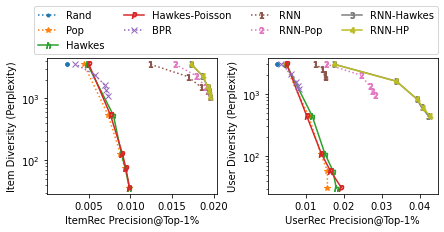
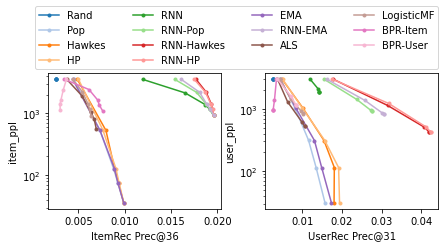
tweaks

Changed region(s): [[0.0, 0.0302, 0.9955, 0.9957]]

diff --git a/src/rim_experiments/dataset/base.py b/src/rim_experiments/dataset/base.py
@@ -41,7 +41,8 @@ def _mark_holdout(event_df, user_df, horizon):
 
     post_test = (event_df['_holdout']==2).mean()
     if post_test>0:
-        warnings.warn(f"Post-test {post_test:.1%} events with _holdout=2 should be ignored")
+        warnings.warn("Post-test events with _holdout=2 should be ignored; "
+            f"they account for {post_test:.1%} of all events")
     del event_df['TEST_START_TIME']
     return event_df
 
@@ -79,7 +80,7 @@ def _augment_item_hist(item_df, event_df):
 
 
 @dataclasses.dataclass(eq=False)
-class _UnlabeledDataset:
+class _SelfSupervisedDataset:
     """ a dataset with observed events and optional user histories and timestamps
     for self-supervised training
     """
@@ -99,8 +100,8 @@ class _UnlabeledDataset:
 
 
 @dataclasses.dataclass(eq=False)
-class Dataset(_UnlabeledDataset):
-    """ A dataset class contains 3 related tables
+class Dataset(_SelfSupervisedDataset):
+    """ A labeled dataset from 3 related tables:
         event_df: [USER_ID, ITEM_ID, TIMESTAMP]
         user_df: [USER_ID (index), TEST_START_TIME]
         item_df: [ITEM_ID (index)]
@@ -134,7 +135,7 @@ class Dataset(_UnlabeledDataset):
             self.event_df[self.event_df['_holdout']==1].copy(),
             self.user_in_test.index, self.item_in_test.index, "df"
         )
-        self.training_data = _UnlabeledDataset(
+        self.training_data = _SelfSupervisedDataset(
             self.event_df[self.event_df['_holdout']==0].copy(),
             self.user_df, self.item_df
         )
@@ -148,7 +149,8 @@ class Dataset(_UnlabeledDataset):
             print(pd.DataFrame(self.get_stats()).T.stack().apply('{:.2f}'.format))
             print(self.user_df.sample().iloc[0])
             print(self.item_df.sample().iloc[0])
-        print("dataset post-init complete")
+
+        print("Dataset initialized!")
 
     def __hash__(self):
         return id(self)

diff --git a/src/rim_experiments/util/cvx_bisect.py b/src/rim_experiments/util/cvx_bisect.py
@@ -36,7 +36,7 @@ def primal_solution(u, v, s, eps):
     if eps > 0:
         return torch.sigmoid(s_u_v(s, u, v) / eps)
     else:
-        # TODO: how to represent subgradients in [0, 1]?
+        # obtain subgradients via torch.floor or ceil
         return torch.sign(s_u_v(s, u, v)) * 0.5 + 0.5
 
 
@@ -54,12 +54,22 @@ def dual_complete(u, v, s, alpha, beta, eps):
     return (u * alpha).mean() + (v * beta).mean() + sp.mean()
 
 
-def grad_u(u, v, s, alpha, eps, x=None):
+def grad_u(u, v, s, alpha, eps):
     """
     find u = min{u>=0 : E_y[pi(x,y)] <= alpha(x)}
     """
     pi = primal_solution(u, v, s, eps)
-    return alpha - pi.mean(1)
+    if eps>0:
+        return alpha - pi.mean(1)
+    else:
+        return _subgradient(alpha, pi)
+
+
+def _subgradient(alpha, pi):
+    lb = alpha - torch.ceil(pi).mean(1)
+    ub = alpha - torch.floor(pi).mean(1)
+    return torch.where(ub < 0, ub, torch.where(
+        lb > 0, lb, torch.zeros_like(lb)))
 
 
 @torch.no_grad()
@@ -187,7 +197,10 @@ if 'CVX_STABLE' in os.environ and int(os.environ['CVX_STABLE']):
         """ alpha - pi.mean(1)
         be more precise if eps->0 while there are a lot of ties
         """
-        assert 0<alpha<1 or eps>0, "prevent inf-inf when both are extreme values"
+        if eps==0:
+            pi = torch.sign(s_u_v(s, u, v)) * 0.5 + 0.5
+            return _subgradient(alpha, pi)
+
         alpha = torch.as_tensor(alpha, device=s.device).clip(0, 1)
 
         z = alpha.log() - (1-alpha).log()

diff --git a/src/rim_experiments/__init__.py b/src/rim_experiments/__init__.py
@@ -1,6 +1,6 @@
 try:
-    import pylab as pl
-    pl.plot(); pl.show() # tick behaves oddly with matplotlib
+    import matplotlib.pyplot as plt
+    plt.plot(); plt.show() # tick behaves weirdly with matplotlib
 except ImportError:
     pass
 
@@ -75,7 +75,7 @@ class Experiment:
             "BPR-Item", "BPR-User",
             ],
         model_hyps={},
-        device="cpu", # for gpu, use "cuda" after setting CUDA_VISIBLE_DEVICES
+        device="cuda" if torch.cuda.is_available() else "cpu",
         cvx=False,
         online=False,
         **mtch_kw
@@ -274,11 +274,13 @@ def plot_results(self, logy=True):
     yname = ['item_ppl', 'user_ppl']
 
     for ax, df, xname, yname in zip(ax, df, xname, yname):
+        ax.set_prop_cycle('color', [
+            plt.get_cmap('tab20')(i/20) for i in range(20)])
         if df is not None:
             ax.plot(
                 df.loc['prec'].unstack().values.T,
                 df.loc[yname].unstack().values.T,
-                '+:',
+                '.-',
             )
         ax.set_xlabel(xname)
         ax.set_ylabel(yname)

diff --git a/setup.py b/setup.py
@@ -12,7 +12,6 @@ setup(
     },
 
     # use `conda env update --file environment.yml` to install full dependencies
-    # "pynvml", # if on gpu host
     install_requires=[
         "torch>=1.7.1", # torch==1.7.1+cu101
         "pytorch-lightning>=1.3.8",
@@ -20,7 +19,7 @@ setup(
         "lightfm>=1.16",
         "pyarrow>=0.13.0",
         "tick>=0.6",
-        # "implicit>=0.4.4", # manual install
+        # "implicit>=0.4.4", # conda install -c conda-forge implicit implicit-proc=*=gpu
         "backports.cached-property",
     ],
 )

diff --git a/src/rim_experiments/scripts/everything_ml_1m.py b/src/rim_experiments/scripts/everything_ml_1m.py
@@ -1,11 +1,9 @@
 #!/usr/bin/env python
 # coding: utf-8
 
-import pylab as pl, os
+import os
 os.environ["CUDA_DEVICE_ORDER"]="PCI_BUS_ID"
 os.environ['CUDA_VISIBLE_DEVICES'] = '0'
-pl.plot()
-pl.show()
 
 from rim_experiments import *
 from rim_experiments.dataset import *
@@ -13,7 +11,6 @@ from rim_experiments.dataset import *
 kw = {
     # "mult": [0, 0.1, 0.2, 0.5, 1, 3, 10, 30, 100],
     "mult": [0, 0.5, 1, 3, 100],
-    # "device": "cuda",
     "models_to_run": [
         "Rand", "Pop",
         "Hawkes", "HP",

diff --git a/src/rim_experiments/models/rnn.py b/src/rim_experiments/models/rnn.py
@@ -121,7 +121,7 @@ class _LitRNNModel(_LitValidated):
         TNC_out, _ = self.model.rnn(self.model.encoder(TN_layout), hiddens)
         last_hidden = TNC_out[lengths-1, np.arange(len(lengths))]
         pred_logits = self.model.decoder(last_hidden)
-        log_bias = (pred_logits.log_softmax(dim=1) - pred_logits).mean(axis=1)
+        log_bias = -pred_logits.logsumexp(1)
         return last_hidden.cpu().numpy(), log_bias.cpu().numpy()
 
     def configure_optimizers(self):

diff --git a/src/rim_experiments/models/__init__.py b/src/rim_experiments/models/__init__.py
@@ -1,11 +1,14 @@
 import pandas as pd, numpy as np
-import functools, collections
+import functools, collections, warnings
 
 from .rnn import RNN
 from .hawkes import Hawkes
 from .hawkes_poisson import HawkesPoisson
 from .lightfm_bpr import LightFM_BPR
-from .implicit import ALS, LogisticMF
+try:
+    from .implicit import ALS, LogisticMF
+except ImportError:
+    warnings.warn("Implicit package not properly installed.")
 
 from rim_experiments.util import LowRankDataFrame
 

diff --git a/src/rim_experiments/metrics/__init__.py b/src/rim_experiments/metrics/__init__.py
@@ -16,6 +16,7 @@ def evaluate_assigned(target_csr, assigned_csr, score_mat=None, axis=None):
 
     out = {
         'prec':     hit.sum() / assigned_csr.sum(),
+        'recs/user': assigned_csr.sum() / assigned_csr.shape[0],
         'item_cov': (assigned_csr.sum(axis=0)>0).mean(),  # 1 by n_items
         'item_ppl': perplexity(assigned_csr.sum(axis=0)),
         'user_cov': (assigned_csr.sum(axis=1)>0).mean(),  # n_users by 1

diff --git a/src/rim_experiments/util/__init__.py b/src/rim_experiments/util/__init__.py
@@ -3,11 +3,6 @@ import functools, collections, time, contextlib, os, torch, gc, warnings
 from datetime import datetime
 from pytorch_lightning import LightningModule
 from backports.cached_property import cached_property
-
-if torch.cuda.is_available():
-    from pynvml import *
-    nvmlInit()
-
 from .score_array import *
 
 

diff --git a/README.md b/README.md
@@ -22,9 +22,8 @@ Yifei Ma, Ge Liu Anoop Deoras. Recurrent Intensity Modeling for User Recommendat
     ```
     ![greedy-ml-1m](figure/greedy-ml-1m.png)
     ```
-    self = main("prepare_ml_1m_data", mult=mult,
-                cvx=True, online=True, device='cuda')
-    fig = plot_results(self)
+    cvx_online = main("prepare_ml_1m_data", mult=mult, cvx=True, online=True)
+    fig = plot_results(cvx_online)
     ```
     ![online-ml-1m](figure/online-ml-1m.png)
 4. To extend to other datasets, see example in [prepare_synthetic_data](src/rim_experiments/dataset/__init__.py)
